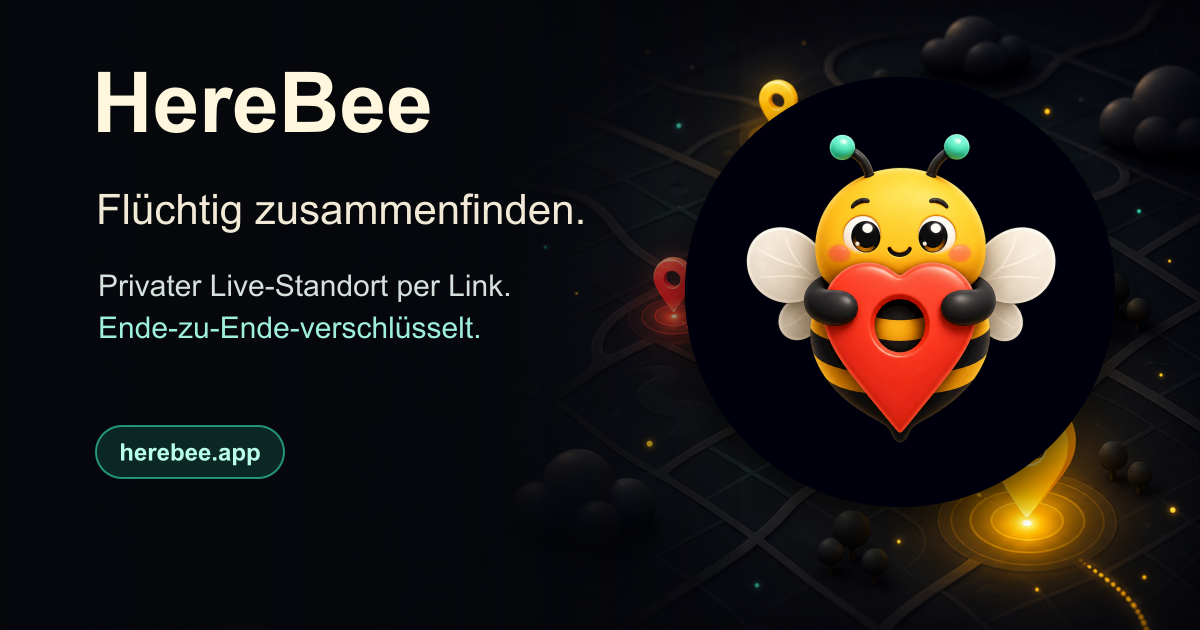
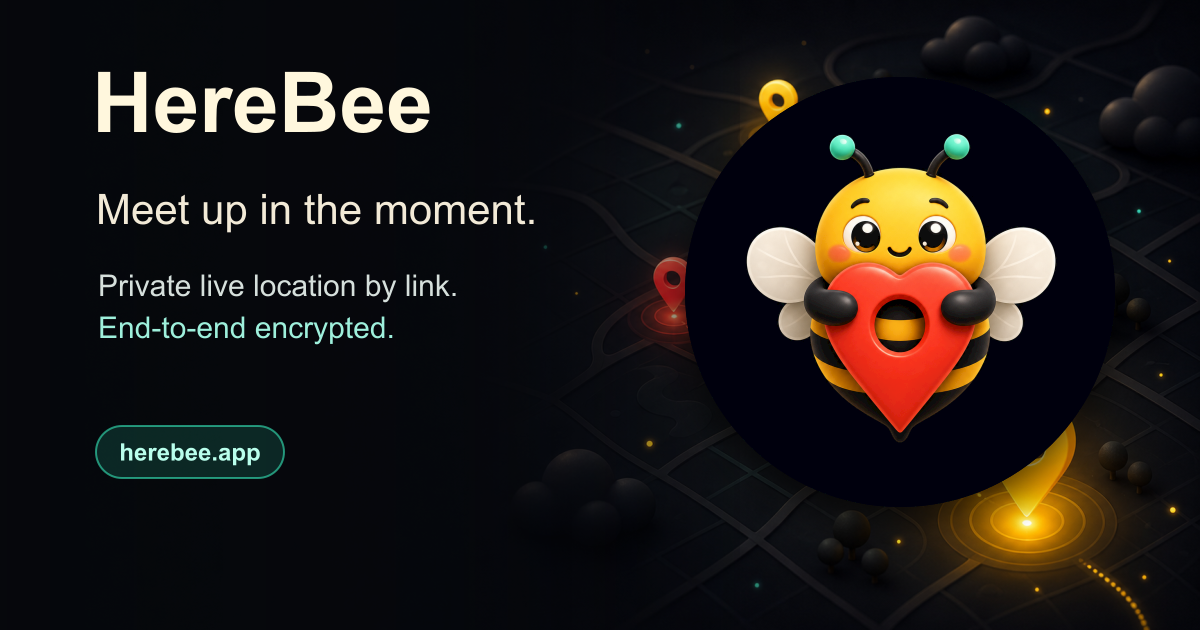
Move fit-all next to roster pills, clarify follow state, fix OG i18n base
- "Fit everyone on screen" is now a neutral icon button next to the
  roster pill instead of a red button buried in the participant sheet
  (red read as a delete action).
- Make the active-follow state on the marker menu clearly visible
  (filled beacon colour + glow) instead of a barely-visible border tint.
- Flip server-side OG/Twitter meta localization to use English as the
  literal baked-in default (matching index.html and the translated
  social card), fixing non-English requests that were silently served
  unlocalized after the default copy changed language.

Changed region(s): [[0.1233, 0.4222, 0.4317, 0.5429], [0.0617, 0.3016, 0.4933, 0.3619]]

diff --git a/client/index.html b/client/index.html
@@ -1,5 +1,5 @@
 <!doctype html>
-<html lang="de">
+<html lang="en">
   <head>
     <meta charset="utf-8" />
     <meta
@@ -11,15 +11,15 @@
     <meta name="theme-color" content="#0e1116" />
     <meta
       name="description"
-      content="HereBee teilt Live-Standorte flüchtig per Link – privat, ohne Account und Ende-zu-Ende-verschlüsselt."
+      content="HereBee shares live locations by private link, with no account, ephemeral rooms, and end-to-end encryption."
     />
     <link rel="canonical" href="https://herebee.app/" />
     <meta property="og:type" content="website" />
     <meta property="og:site_name" content="HereBee" />
-    <meta property="og:title" content="HereBee — flüchtig zusammenfinden" />
+    <meta property="og:title" content="HereBee — meet up in the moment" />
     <meta
       property="og:description"
-      content="Privaten Raum teilen, Live-Standorte sehen, nichts speichern. Ende-zu-Ende-verschlüsselt."
+      content="Share a private room, see live locations, and leave nothing behind. End-to-end encrypted."
     />
     <meta property="og:url" content="https://herebee.app/" />
     <meta property="og:image" content="https://herebee.app/brand/herebee-social-card.png" />
@@ -29,21 +29,21 @@
     <meta property="og:image:height" content="630" />
     <meta
       property="og:image:alt"
-      content="HereBee Logo auf einer dunklen Kartenansicht mit leuchtenden Standortpunkten"
+      content="HereBee logo on a dark map with glowing location markers"
     />
-    <meta property="og:locale" content="de_DE" />
+    <meta property="og:locale" content="en_US" />
     <meta name="twitter:card" content="summary_large_image" />
-    <meta name="twitter:title" content="HereBee — flüchtig zusammenfinden" />
+    <meta name="twitter:title" content="HereBee — meet up in the moment" />
     <meta
       name="twitter:description"
-      content="Privaten Raum teilen, Live-Standorte sehen, nichts speichern. Ende-zu-Ende-verschlüsselt."
+      content="Share a private room, see live locations, and leave nothing behind. End-to-end encrypted."
     />
     <meta name="twitter:image" content="https://herebee.app/brand/herebee-social-card.png" />
     <meta
       name="twitter:image:alt"
-      content="HereBee Logo auf einer dunklen Kartenansicht mit leuchtenden Standortpunkten"
+      content="HereBee logo on a dark map with glowing location markers"
     />
-    <title>HereBee — flüchtig zusammenfinden</title>
+    <title>HereBee — meet up in the moment</title>
     <link rel="icon" href="/favicon.svg" />
     <link rel="icon" type="image/png" sizes="32x32" href="/favicon-32.png" />
     <link rel="apple-touch-icon" href="/apple-touch-icon.png" />
@@ -65,10 +65,13 @@
         </div>
       </header>
 
-      <button id="roster" class="roster" type="button" hidden>
-        <span class="roster-stack" aria-hidden="true"></span>
-        <span class="roster-count"></span>
-      </button>
+      <div id="roster-group" class="roster-group" hidden>
+        <button id="roster" class="roster" type="button">
+          <span class="roster-stack" aria-hidden="true"></span>
+          <span class="roster-count"></span>
+        </button>
+        <button id="fit-all-btn" class="roster-fit" type="button" data-i18n-aria="fitAll" aria-label="Alle auf einen Blick">⛶</button>
+      </div>
 
       <div class="dock">
         <p id="hint" class="hint" data-i18n="hint">

diff --git a/client/src/ui.ts b/client/src/ui.ts
@@ -25,9 +25,11 @@ export class UI {
   private geoLabel = this.geoBtn.querySelector<HTMLElement>(".btn-label")!;
   private shareBtn = document.getElementById("share-btn")!;
   private infoBtn = document.getElementById("info-btn")!;
+  private rosterGroup = document.getElementById("roster-group")!;
   private roster = document.getElementById("roster") as HTMLButtonElement;
   private rosterStack = this.roster.querySelector<HTMLElement>(".roster-stack")!;
   private rosterCount = this.roster.querySelector<HTMLElement>(".roster-count")!;
+  private fitAllBtn = document.getElementById("fit-all-btn")!;
   private hint = document.getElementById("hint")!;
   private sheet = document.getElementById("sheet")!;
   private sheetBody = document.getElementById("sheet-body")!;
@@ -43,6 +45,7 @@ export class UI {
     this.shareBtn.addEventListener("click", () => this.copyLink());
     this.infoBtn.addEventListener("click", () => this.openInfo());
     this.roster.addEventListener("click", () => this.openParticipants());
+    this.fitAllBtn.addEventListener("click", () => this.h.onFitAll());
     document.getElementById("sheet-close")!.addEventListener("click", () => this.closeSheet());
     this.sheet.addEventListener("click", (e) => {
       if (e.target === this.sheet && !this.gated) this.closeSheet();
@@ -84,7 +87,7 @@ export class UI {
     this.lastSharers = sharers;
     this.lastWatchers = watchers;
     // Hide when it's only us alone watching; show once someone shares or others arrive.
-    this.roster.hidden = total < 2 && sharers.length < 1;
+    this.rosterGroup.hidden = total < 2 && sharers.length < 1;
     this.rosterCount.textContent = t("here", { n: total });
     const colored = sharers
       .slice(0, 5)
@@ -97,7 +100,9 @@ export class UI {
     this.rosterStack.innerHTML = [...colored, ...hollow].join("");
   }
 
-  /** Participant list (opened by tapping the roster pill), with a "fit all" action. */
+  /** Participant list, opened by tapping the roster pill. "Fit everyone on
+   *  screen" lives as its own icon button next to the pill (see fitAllBtn),
+   *  not in here, so it doesn't require opening this sheet first. */
   private openParticipants(): void {
     const list = this.lastSharers.length
       ? `<ul class="party-list">${this.lastSharers
@@ -112,15 +117,8 @@ export class UI {
     this.sheetBody.innerHTML = `
       <h2>${t("participantsTitle")}</h2>
       ${list}
-      ${watching}
-      <div class="linkbox" style="margin-top:18px">
-        <button class="btn btn-primary" id="fit-all" style="flex:1">${t("fitAll")}</button>
-      </div>`;
+      ${watching}`;
     this.openSheet();
-    document.getElementById("fit-all")?.addEventListener("click", () => {
-      this.closeSheet();
-      this.h.onFitAll();
-    });
     // Tap a participant to fly the map to their marker.
     this.sheetBody.querySelectorAll<HTMLElement>(".party[data-seed]").forEach((el) => {
       el.addEventListener("click", () => {

diff --git a/client/src/style.css b/client/src/style.css
@@ -159,11 +159,16 @@ body {
 }
 
 /* ---------- roster (top-right) ---------- */
-.roster {
+.roster-group {
   position: absolute;
   top: max(14px, env(safe-area-inset-top));
   right: 14px;
   z-index: 10;
+  display: flex;
+  align-items: center;
+  gap: 8px;
+}
+.roster {
   display: inline-flex;
   align-items: center;
   gap: 9px;
@@ -176,6 +181,33 @@ body {
   color: var(--mist);
   font: 600 12.5px/1 var(--sans);
   cursor: pointer;
+}
+/* "Fit everyone on screen" — a neutral (non-red) icon button right next to
+   the roster pill, so it's reachable without opening the participant sheet. */
+.roster-fit {
+  width: 34px;
+  height: 34px;
+  flex: none;
+  padding: 0;
+  display: flex;
+  align-items: center;
+  justify-content: center;
+  background: var(--ink-glass);
+  backdrop-filter: blur(14px);
+  border: 1px solid var(--hair);
+  border-radius: 50%;
+  box-shadow: var(--shadow);
+  color: var(--mist);
+  font-size: 16px;
+  line-height: 1;
+  cursor: pointer;
+  transition: transform 0.12s ease, filter 0.2s;
+}
+.roster-fit:active {
+  transform: scale(0.92);
+}
+.roster-fit:hover {
+  color: #fff;
 }
 .roster-stack {
   display: inline-flex;
@@ -600,11 +632,16 @@ body {
   opacity: 0;
   pointer-events: none;
   transform: translate(-50%, -50%) scale(0.2);
-  transition: transform 0.22s cubic-bezier(0.34, 1.56, 0.64, 1), opacity 0.18s ease;
+  transition: transform 0.22s cubic-bezier(0.34, 1.56, 0.64, 1), opacity 0.18s ease, background 0.18s ease,
+    box-shadow 0.18s ease;
 }
+/* Active state needs to read clearly at a glance, not just a 1px tinted
+   border — filled with the beacon colour plus a soft glow ring. */
 .mk-bubble-follow.is-following {
-  color: var(--beacon);
+  color: var(--ink);
+  background: var(--beacon);
   border-color: var(--beacon);
+  box-shadow: 0 0 0 4px rgba(52, 225, 180, 0.35), var(--shadow);
 }
 .mk-infobox {
   position: absolute;

diff --git a/shared/og.ts b/shared/og.ts
@@ -3,7 +3,7 @@
  *
  * Social crawlers (Twitter, Facebook, WhatsApp, …) don't execute JavaScript, so
  * the client's runtime i18n (see client/src/i18n.ts) never reaches them — only
- * whatever the server sends on the initial HTML response counts. `OG.de` is
+ * whatever the server sends on the initial HTML response counts. `OG.en` is
  * the literal source of truth: its strings must match `client/index.html`
  * verbatim, since the server (see server/src/index.ts) localizes by replacing
  * those exact substrings with the negotiated language's version.
@@ -38,10 +38,11 @@ export const OG: Record<OgLang, OgStrings> = {
     htmlLang: "de",
   },
   en: {
-    title: "HereBee — meet up, fleetingly",
-    description: "HereBee shares live locations fleetingly via a link — private, no account, end-to-end encrypted.",
-    ogDescription: "Share a private room, see live locations, nothing stored. End-to-end encrypted.",
-    imageAlt: "HereBee logo over a dark map view with glowing location dots",
+    title: "HereBee — meet up in the moment",
+    description:
+      "HereBee shares live locations by private link, with no account, ephemeral rooms, and end-to-end encryption.",
+    ogDescription: "Share a private room, see live locations, and leave nothing behind. End-to-end encrypted.",
+    imageAlt: "HereBee logo on a dark map with glowing location markers",
     ogLocale: "en_US",
     htmlLang: "en",
   },

diff --git a/server/src/index.ts b/server/src/index.ts
@@ -127,15 +127,15 @@ function serveFile(req: IncomingMessage, res: ServerResponse, filePath: string, 
 // --- OG/Twitter meta localization -----------------------------------------
 // Social crawlers don't run JS, so the client's runtime i18n never reaches
 // them — only what this server sends on the initial HTML response does. The
-// German strings baked into index.html (see shared/og.ts's `OG.de`) are the
+// English strings baked into index.html (see shared/og.ts's `OG.en`) are the
 // source of truth; for any other negotiated language we substitute the exact
-// matching substrings. `de` (and anything unmatched, per `negotiate`'s
+// matching substrings. `en` (and anything unmatched, per `negotiate`'s
 // fallback) is served byte-for-byte unchanged.
 let indexHtmlCache: string | null = null;
 
 function localizeHtml(html: string, lang: keyof typeof OG): string {
-  if (lang === "de") return html;
-  const src = OG.de;
+  if (lang === "en") return html;
+  const src = OG.en;
   const dst = OG[lang];
   return html
     .split(src.title)
